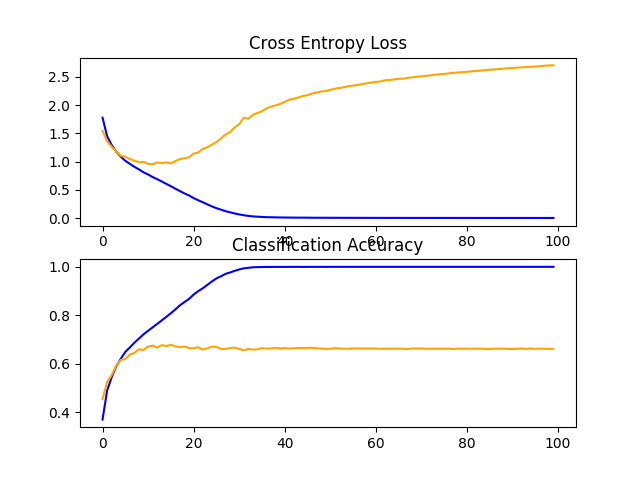
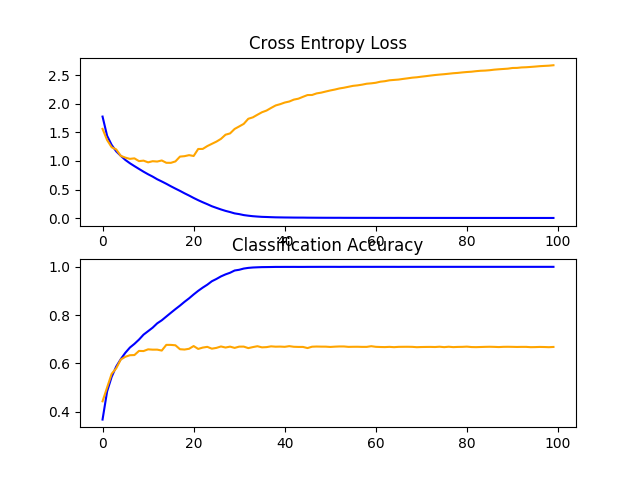
Baseline Model 1: VGG Block

diff --git a/cnnCIFAR10.py b/cnnCIFAR10.py
@@ -36,15 +36,15 @@ def prep_pixels(train, test):
 # define cnn model
 def define_model():
 	model = Sequential()
-	# model.add(Conv2D(32, (3, 3), activation='relu', kernel_initializer='he_uniform', padding='same', input_shape=(32, 32, 3)))
-	# model.add(Conv2D(32, (3, 3), activation='relu', kernel_initializer='he_uniform', padding='same'))
-	# model.add(MaxPooling2D((2, 2)))
-	# model.add(Flatten())
-	# model.add(Dense(128, activation='relu', kernel_initializer='he_uniform'))
-	# model.add(Dense(10, activation='softmax'))
-	# # compile model
-	# opt = SGD(lr=0.001, momentum=0.9)
-	# model.compile(optimizer=opt, loss='categorical_crossentropy', metrics=['accuracy'])
+	model.add(Conv2D(32, (3, 3), activation='relu', kernel_initializer='he_uniform', padding='same', input_shape=(32, 32, 3)))
+	model.add(Conv2D(32, (3, 3), activation='relu', kernel_initializer='he_uniform', padding='same'))
+	model.add(MaxPooling2D((2, 2)))
+	model.add(Flatten())
+	model.add(Dense(128, activation='relu', kernel_initializer='he_uniform'))
+	model.add(Dense(10, activation='softmax'))
+	# compile model
+	opt = SGD(lr=0.001, momentum=0.9)
+	model.compile(optimizer=opt, loss='categorical_crossentropy', metrics=['accuracy'])
 	return model
  
 # plot diagnostic learning curves
